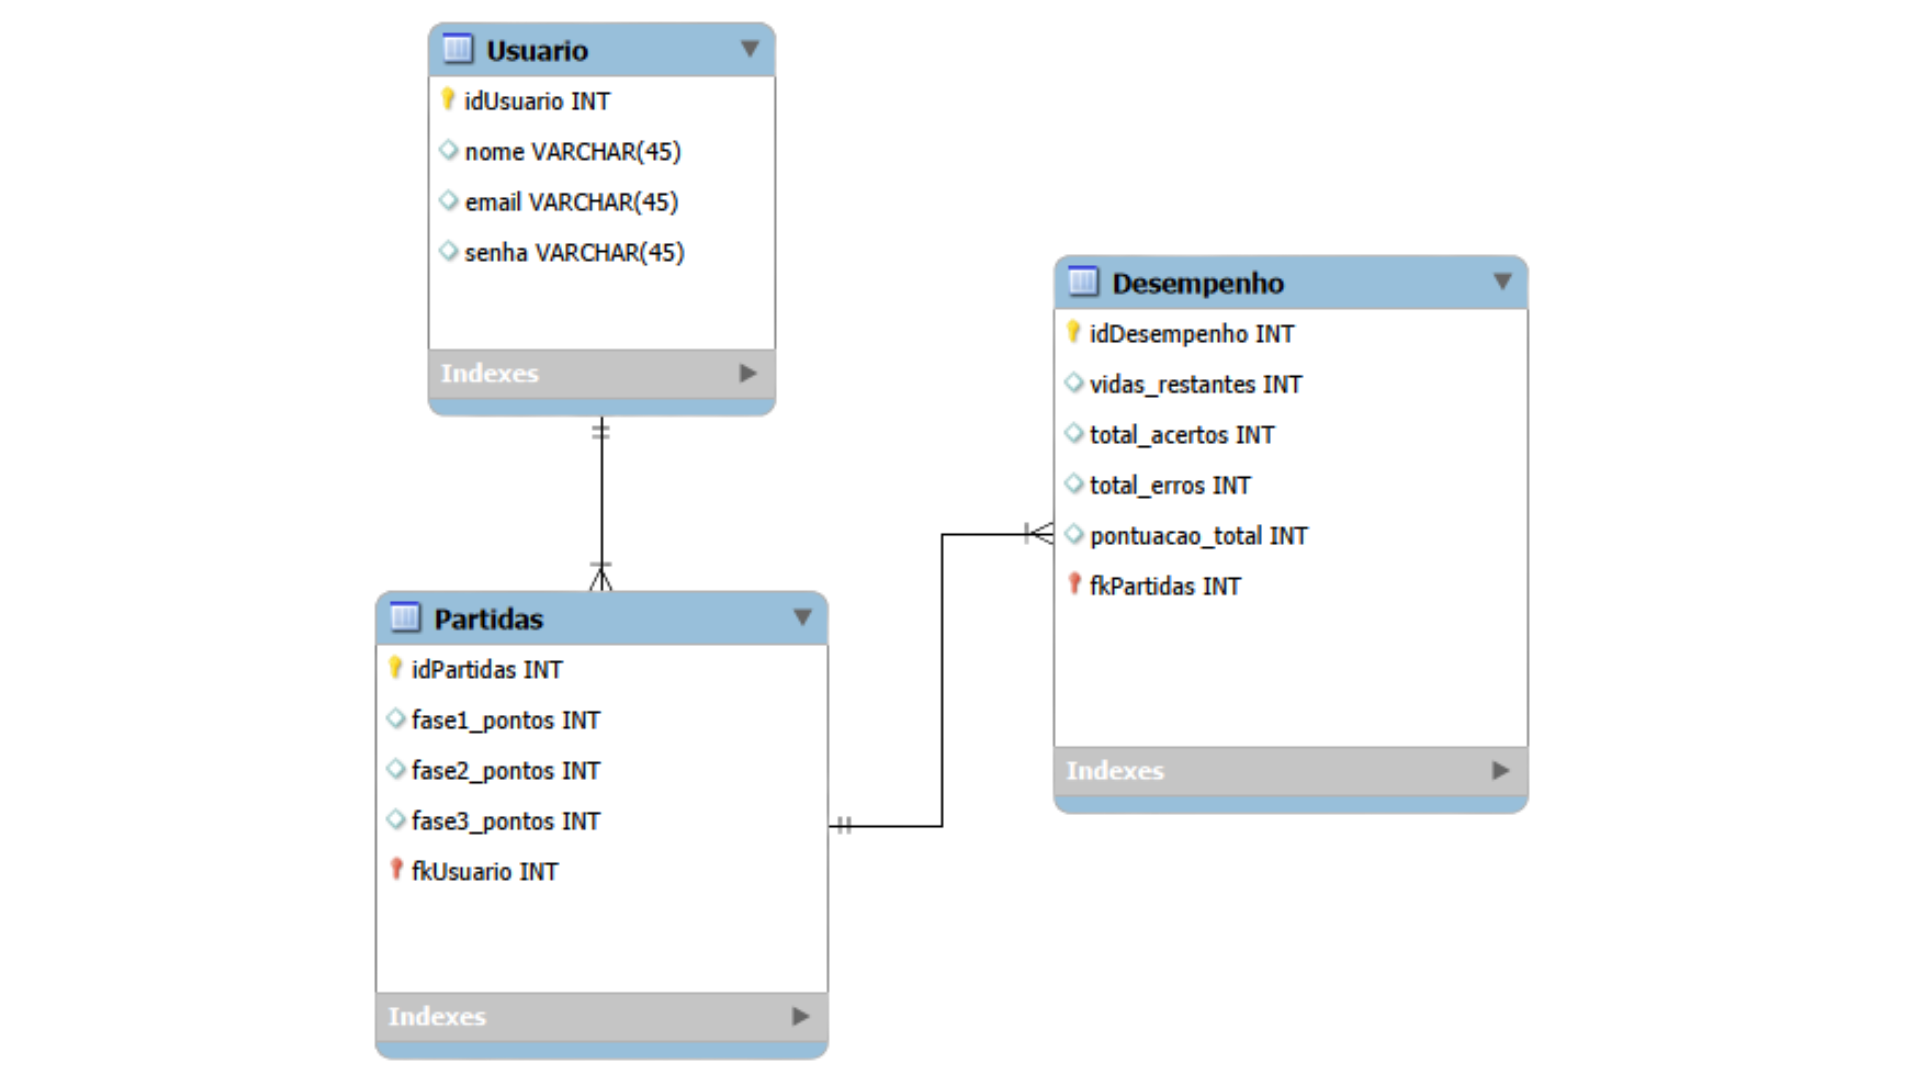
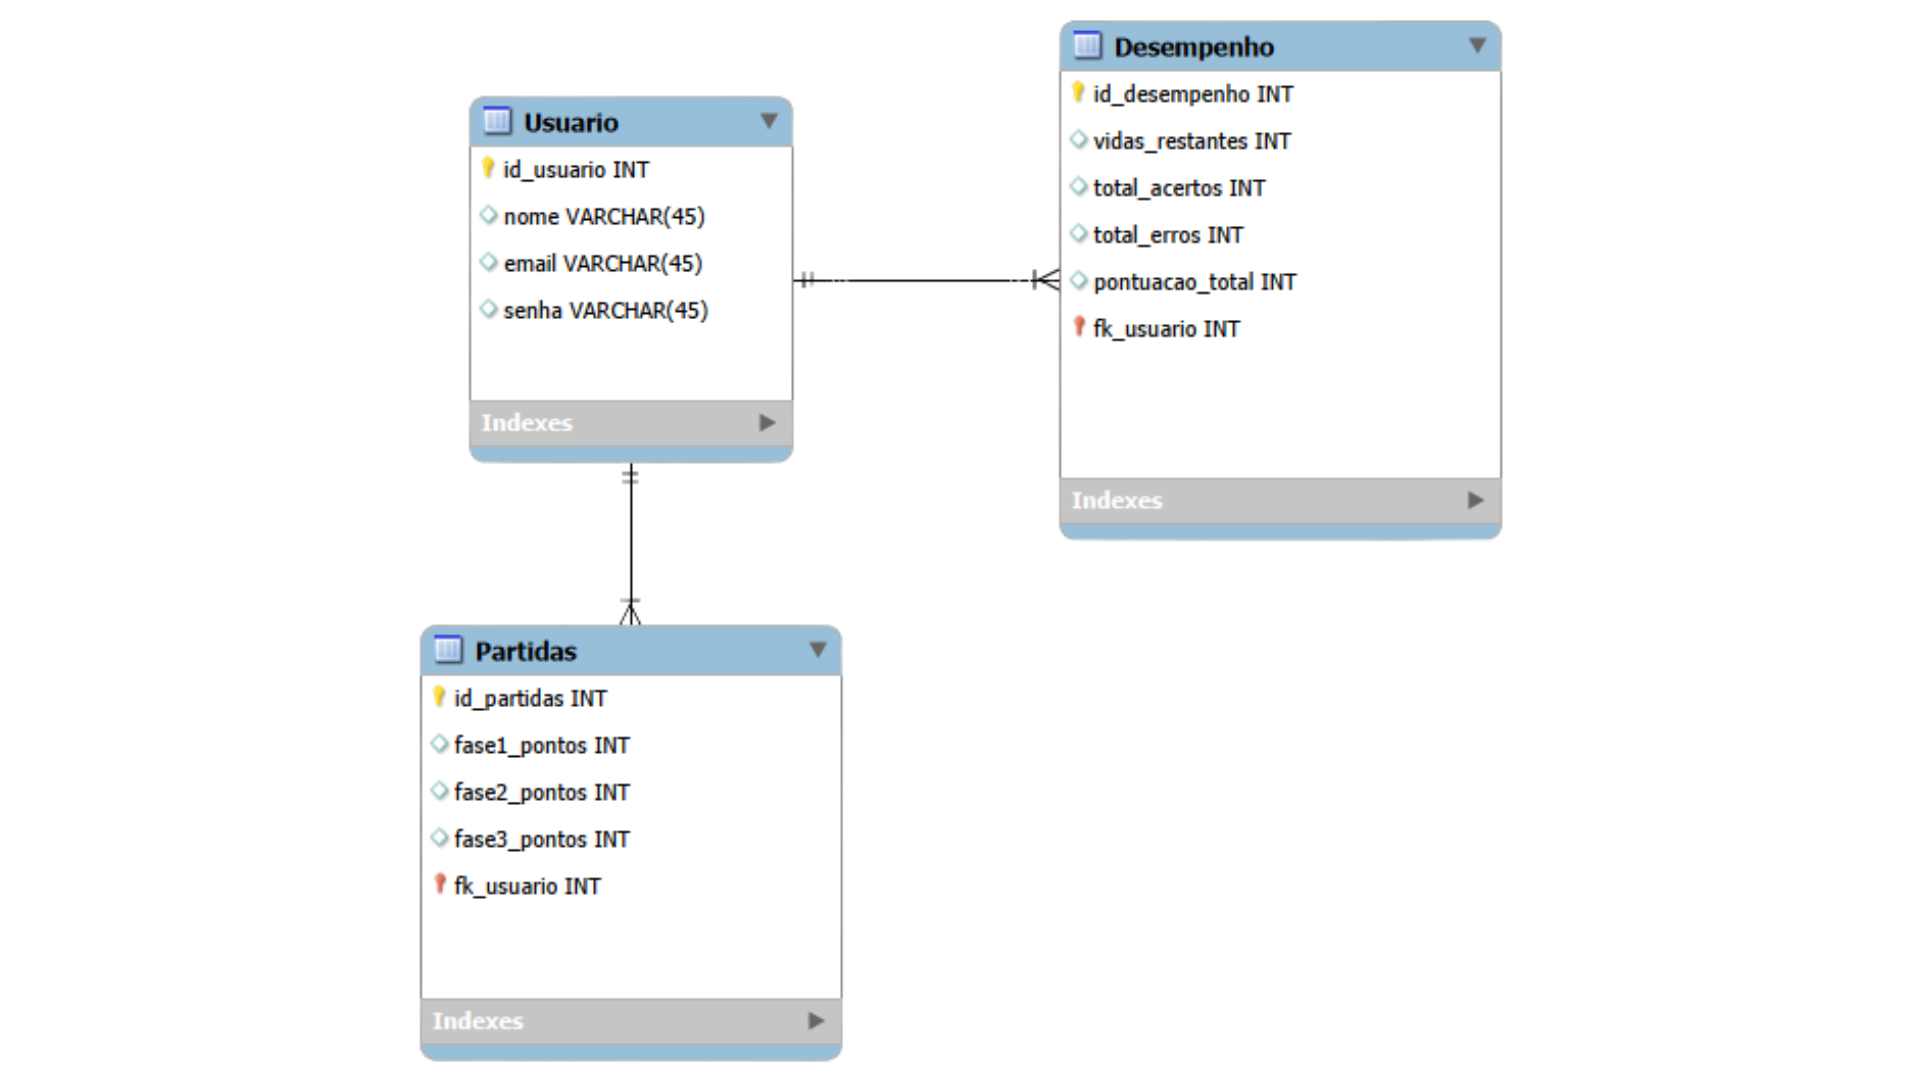
atualização

diff --git a/Mario's Memories/public/App/dashboard/jogo.html b/Mario's Memories/public/App/dashboard/jogo.html
@@ -18,9 +18,9 @@
         <div>OLÁ,<div id="nome_logado" style="color: #FBD000;"></div> </div>
         <nav class="topicos">
             <ul class="indices">
-                <button onclick="telaJogo()">Jogo</button>
-                <button onclick="telaPontuacao(), vidasSobras()">Pontuação</button>
-                <button onclick="telaInstrucao()">Instruções</button>
+                <button onclick="telaJogo(), vidasSobras(), plotarGraficoBarra() ">Jogo</button>
+                <button onclick="telaPontuacao(), vidasSobras(), plotarGraficoBarra() ">Pontuação</button>
+                <button onclick="telaInstrucao(),vidasSobras(), plotarGraficoBarra() ">Instruções</button>
             </ul>
         </nav>
         <div class="voltar">
@@ -97,7 +97,7 @@
                 <h3>Fase 1: <p id="pontuacao_fase1"></p></h3>
                 <h3>Fase 2: <p id="pontuacao_fase2"></p></h3>
                 <h3>Fase 3: <p id="pontuacao_fase3"></p></h3>
-                <div class="dash">DESEMPENHO:
+                <div class="dash">Rank:
                     <canvas id="barra"></canvas>
                 </div>
             </div>
@@ -136,6 +136,16 @@
 <!-- <script src="../js/dash.js"></script> -->
 <script>
 
+    window.onload = function(){
+        rank();
+        carregarDash();
+        vidasSobras();
+        
+        
+    }
+
+
+
     function vidasSobras() {
     var idUsuariov = sessionStorage.ID_USUARIO;
 
@@ -170,16 +180,16 @@
     var morreu = document.getElementById("morreu")
 
 
-    function cadastrarPontuacao() {
-        var fase1 = pontuacaoFinal;
-        var fase2 = pontuacaoFinal;
-        var fase3 = pontuacaoFinal;
+   function cadastrarPontuacao() {
+        var fase1 = pontuacaofase1;
+        var fase2 = pontuacaofase2;
+        var fase3 = pontuacaofase3;
 
         var fk_usuario = sessionStorage.ID_USUARIO
 
        
 
-        fetch("/partidas/cadastrarPontuacao", {
+        fetch("/pontuacoes/cadastrarPontuacao", {
             method: "POST",
             headers: {
                 "Content-Type": "application/json",
@@ -197,11 +207,11 @@
                 if (resposta.ok) {
 
                     alert(
-                        "Cadastro realizado com sucesso! Redirecionando para tela de Login...");
+                        "Cadastro realizado com sucesso! ");
 
                                    
                 } else {
-                    throw `Houve um erro ao tentar realizar o cadastro PONTUACAO! ${fase1} ,  ${fase2} ,  ${fase3} ,  ${fk_usuario}  `;
+                    throw `Houve um erro ao tentar realizar o cadastro PONTUACAO!  `;
                    
                 }
             })
@@ -257,6 +267,9 @@
 
     let numeroDaQuestaoAtual = 0
     let pontuacaoFinal = 0
+    let pontuacaofase1 = 0;
+    let pontuacaofase2 = 0;
+    let pontuacaofase3 = 0;
     let quantidadeDeQuestoes = listaDeQuestoes.length
 
     document.getElementById("qtdQuestoes").innerHTML = quantidadeDeQuestoes
@@ -333,7 +346,18 @@
         options.forEach(opt => {
             if (opt.checked && opt.value === respostaCorreta) {
                 document.getElementById(idLabelCorreta).classList.add("text-success-with-bg")
-                pontuacaoFinal+= 100;
+                if(pontuacaoFinal == 0){
+                    pontuacaofase1 += 100
+                    pontuacaoFinal++
+                } 
+                else if(pontuacaoFinal == 1){
+                    pontuacaofase2 += 100
+                    pontuacaoFinal++
+                }else if(pontuacaoFinal == 2){
+                    pontuacaofase3 += 100
+                    pontuacaoFinal++
+                } 
+
                 acerto.play();
             }
             else if (opt.checked && opt.value !== respostaCorreta){

diff --git a/Mario's Memories/src/models/pontuacaoModel.js b/Mario's Memories/src/models/pontuacaoModel.js
@@ -25,16 +25,31 @@ function vidasSobras(idUsuario){
     return database.executar(query);
 }
 function cadastrarPontuacao(fase1, fase2, fase3, fk_usuario) {
-    console.log("ACESSEI O USUARIO MODEL \n \n\t\t >> Se aqui der erro de 'Error: connect ECONNREFUSED',\n \t\t >> verifique suas credenciais de acesso ao banco\n \t\t >> e se o servidor de seu BD está rodando corretamente. \n\n function cadastrar():", nome, email, senha);
+   
+    console.log("ACESSEI O PONTUACAO MODEL \n \n\t\t >> function cadastrarPontuacao():", fase1, fase2, fase3, fk_usuario);
     
-    // Insira exatamente a query do banco aqui, lembrando da nomenclatura exata nos valores
-    //  e na ordem de inserção dos dados.
     var instrucaoSql = `
-        INSERT INTO partidas (fase1_pontos, fase2_pontos, fase3_pontos) VALUES ('${fase1}', '${fase2}', '${fase3}','${fk_usuario});
+        INSERT INTO partidas (fase1_pontos, fase2_pontos, fase3_pontos, fk_usuario) 
+        VALUES ('${fase1}', '${fase2}', '${fase3}', '${fk_usuario}');
     `;
+    
     console.log("Executando a instrução SQL: \n" + instrucaoSql);
     return database.executar(instrucaoSql);
 }
 
-module.exports = { obterDados, vidasSobras, cadastrarPontuacao };
+function rank(){
 
+    var query = `
+        select u.nome, count(p.id_partidas) as total_partidas
+        from usuario as u join partidas as p
+        on u.id_usuario = p.fk_usuario
+        group by u.nome
+        order by total_partidas desc
+        limit 3;
+    `
+    console.log("Executando a instrução SQL: \n" + query);
+    return database.executar(query);
+}
+
+
+module.exports = { obterDados, vidasSobras, cadastrarPontuacao, rank };

diff --git a/Mario's Memories/public/App/js/dash.js b/Mario's Memories/public/App/js/dash.js
@@ -56,28 +56,48 @@ function vidasSobras() {
 
 
 
-function plotarGraficoBarra(dados) {
+function rank(dados) {
 
-    var pontos = [];
-    var fase = [];
+    fetch('/pontuacoes/rank').then(function(response){
+        if(response.ok){
+            response.json().then(function(resposta){
+                console.log("Dados Recebidos rank")
+                plotarGraficoBarra(resposta)
+            }
+        )
 
-    for (var i = 0; i < dados.length; i++) {
-        pontos.push(dados[i].pontos);
-        fase.push(dados[i].fase);
+        }else{
+            console.log("erro rank")
+        }
+
     }
 
+)
+}
+
+    function plotarGraficoBarra(dados){
+
+    var nomes = [];
+    var partidas = [];
+
+    for (var i = 0; i < dados.length; i++) {
+        nomes.push(dados[i].nome);
+        partidas.push(dados[i].total_partidas);
+    }
    
     var ctx = document.getElementById('barra').getContext('2d');
     
-    var myChart = new Chart(ctx, {
+    new Chart(ctx, {
         type: 'bar', 
         data: { 
-            labels: fase, 
+            labels: nomes, 
             datasets: [{
-                label: 'Pontos', 
-                data: pontos, 
+                label: 'Total Partidas', 
+                data: partidas, 
                 backgroundColor: [
                     '#E52521',
+                    '#306732',
+                    '#115d7b'
                 ],
                 borderColor: [
                     '#000000', 

diff --git a/Mario's Memories/src/controllers/pontuacaoController.js b/Mario's Memories/src/controllers/pontuacaoController.js
@@ -36,7 +36,7 @@ function vidasSobras(req, res) {
 
 
 
-function cadastrarPotuacao(req, res) {
+function cadastrarPontuacao(req, res) {
     // Crie uma variável que vá recuperar os valores do arquivo cadastro.html
     var fase1 = req.body.fase1Server;
     var fase2 = req.body.fase2Server;
@@ -63,6 +63,26 @@ function cadastrarPotuacao(req, res) {
             );
     }
 
+    function rank(req, res) {
 
-module.exports = { obterDados, vidasSobras ,cadastrarPotuacao};
+        // Passe os valores como parâmetro e vá para o arquivo usuarioModel.js
+
+        pontuacaoModel.rank()
+            .then(
+                function (resultado) {
+                    res.json(resultado);
+                }
+            ).catch(
+                function (erro) {
+                    console.log(erro);
+                    console.log(
+                        "\nHouve um erro ao realizar o cadastro! Erro: ",
+                        erro.sqlMessage
+                    );
+                    res.status(500).json(erro.sqlMessage);
+                }
+            );
+    }
+
+module.exports = { obterDados, vidasSobras ,cadastrarPontuacao, rank};
 

diff --git a/Mario's Memories/src/routes/pontuacao.js b/Mario's Memories/src/routes/pontuacao.js
@@ -12,7 +12,11 @@ router.get("/vidasSobras/:idUsuario", function(req, res){
 });
 
 router.post("/cadastrarPontuacao", function (req, res) {
-    pontuacaoController.cadastrarPotuacao(req, res);
+    pontuacaoController.cadastrarPontuacao(req, res);
+})
+
+router.get("/rank", function (req, res) {
+    pontuacaoController.rank(req, res);
 })
 
 module.exports = router;
